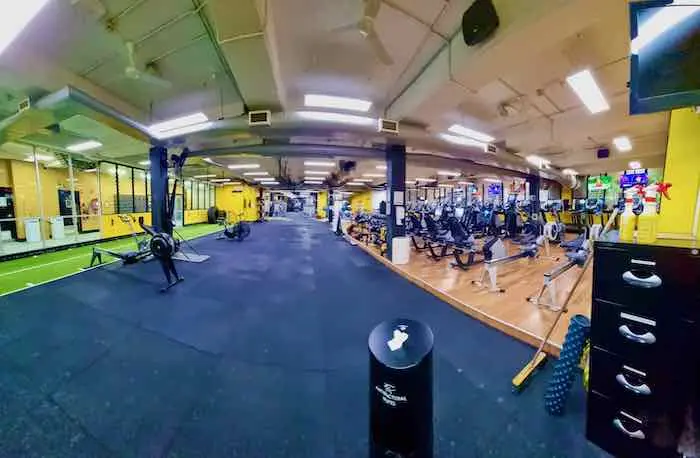
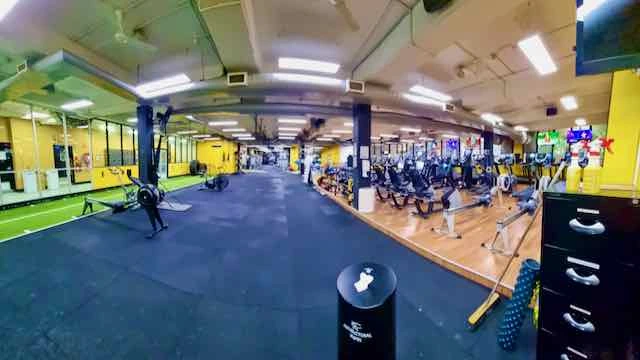
fix img size to cover

diff --git a/Style/blog.css b/Style/blog.css
@@ -12,7 +12,8 @@
   align-items: center;
   border-radius: 10px;
   background-image: url('/Assets/kalen-emsley-INf4LQZwxRU-unsplash.webp');
-  background-size: 100% auto;
+  background-repeat: no-repeat;
+  background-size: cover;
   color: var(--primary-color);
 }
 
@@ -62,6 +63,10 @@
   margin: 10px auto;
   overflow: hidden;
   background-color: var(--quaternary-color);
+}
+
+.blog-card img{
+  object-fit: cover;
 }
 
 .blog-card h1 {
